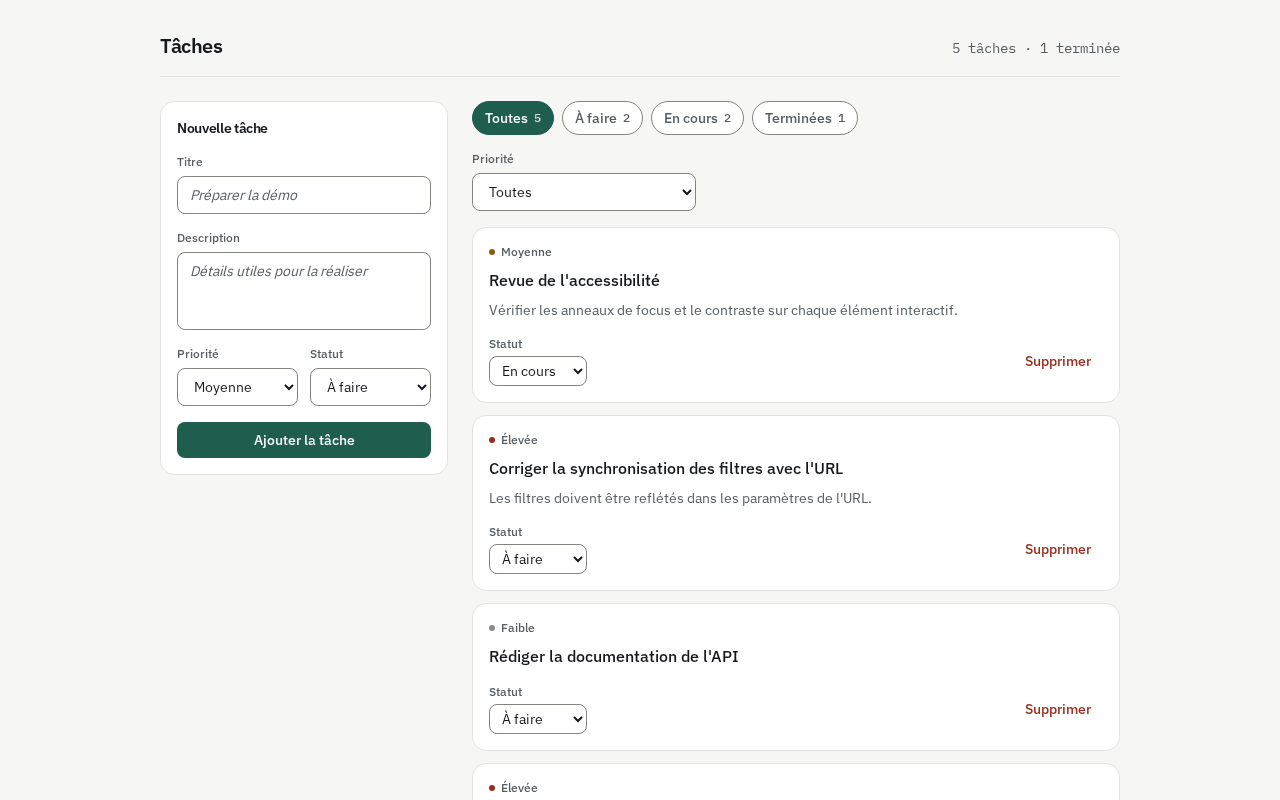
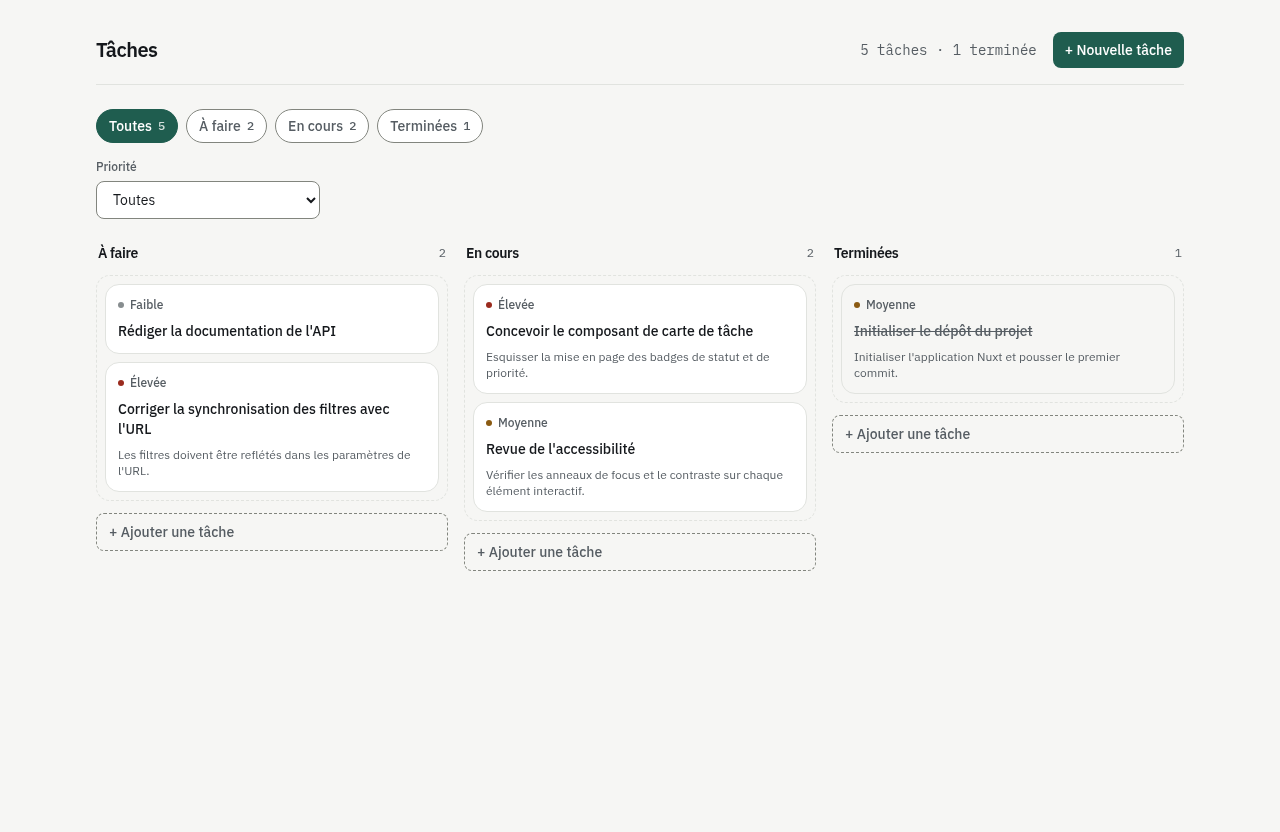
docs: update readme for the board
README, screenshots and memory now describe the board: the move
endpoint and its ordering rules, the position field and legacy
normalization, the status filter selecting columns instead of rows,
the drag-and-drop library choice and its SSR behavior, and the task
modal replacing the sidebar form.

diff --git a/README.md b/README.md
@@ -1,6 +1,6 @@
 # Task Manager
 
-Petit gestionnaire de tâches : liste, création, changement de statut, suppression et filtrage, avec rendu côté serveur. Réalisé dans le cadre d'un test technique.
+Petit gestionnaire de tâches : tableau Kanban (glisser-déposer, ordre persisté), création et édition via une modale, filtrage, rendu côté serveur. Réalisé dans le cadre d'un test technique.
 
 |                     Bureau (1280px)                     |                   Mobile (375px)                    |
 | :-------------------------------------------------------: | :----------------------------------------------------: |
@@ -76,22 +76,30 @@ Pas de base de données : hors périmètre de l'exercice. Les tâches sont persi
   npm run dev
   ```
 
-- **Donnée corrompue** : toute lecture passe par le même dépôt de tâches, donc si le contenu stocké ne respecte pas le schéma Zod d'une tâche (édition manuelle du fichier, par exemple), chaque route (`GET`, `POST`, `PATCH`, `DELETE`) répond `500` avec le message « Task data is corrupted », sans jamais écraser le fichier existant : la donnée invalide reste disponible pour investigation, le détail de l'erreur est loggé côté serveur et jamais renvoyé au client.
+- **Donnée corrompue** : toute lecture passe par le même dépôt de tâches, donc si le contenu stocké ne respecte pas le schéma Zod d'une tâche (édition manuelle du fichier, par exemple), chaque route (`GET`, `POST`, `PATCH`, `DELETE`, `POST .../move`) répond `500` avec le message « Task data is corrupted », sans jamais écraser le fichier existant : la donnée invalide reste disponible pour investigation, le détail de l'erreur est loggé côté serveur et jamais renvoyé au client.
+- **Ordre des tâches** : chaque tâche porte un `position`, un rang entier propre à sa colonne de statut (`0..n-1`, renuméroté après chaque création, changement de statut, suppression ou déplacement). Une tâche stockée avant l'introduction de ce champ (donnée historique) n'a pas de 500 pour autant : à la lecture, les tâches sans `position` sont classées par `createdAt` au sein de leur statut, pour obtenir un rang valide.
 
 ## Architecture
 
 ```
 app/
-├── pages/index.vue          page unique : liste, filtres, formulaire de création
-├── components/               composants présentationnels (carte, filtres, formulaire, alertes)
+├── pages/index.vue          page unique : tableau, filtres, modale de tâche
+├── components/
+│   ├── TaskBoard.vue         colonnes visibles selon le filtre de statut
+│   ├── TaskColumn.vue        une colonne : liste triable (vue-draggable-plus), bouton d'ajout
+│   ├── TaskCard.vue           carte compacte, cliquable/focusable (ouvre la modale)
+│   ├── TaskModal.vue          <dialog> natif : création ou édition
+│   ├── TaskForm.vue           formulaire réutilisé par la modale (création et édition)
+│   ├── TaskFilters.vue        filtres statut (colonnes visibles) et priorité
+│   └── AppAlert.vue, TaskHiddenNotice.vue   bannières d'erreur et de notice
 ├── composables/               synchronisation des filtres avec l'URL
-├── stores/tasks.ts            état Pinia : liste, filtres, erreurs, mises à jour optimistes
+├── stores/tasks.ts            état Pinia : tâches, filtres, erreurs, mutations optimistes et pessimistes
 ├── utils/                     libellés français des énumérations, normalisation des erreurs API
 └── assets/css/main.css        jetons Tailwind (@theme)
 
 server/
-├── api/tasks/                 routes Nitro (une par méthode HTTP)
-├── utils/task-repository.ts   lecture/écriture du fichier, file d'écriture sérialisée
+├── api/tasks/                 routes Nitro (une par méthode HTTP, plus `[id]/move.post.ts`)
+├── utils/task-repository.ts   lecture/écriture du fichier, ordre par colonne, file d'écriture sérialisée
 └── data/tasks.json            jeu de données de démonstration (seed)
 
 shared/
@@ -104,20 +112,23 @@ test/
 └── e2e/                       API complète sur un serveur réel, stockage en mémoire
 ```
 
-Flux d'une requête : `page → store (action Pinia) → $fetch → route serveur → dépôt de tâches → fichier JSON`. Le chargement initial de la liste s'exécute côté serveur via `useAsyncData`, qui hydrate directement le store depuis le payload SSR : aucun second appel réseau n'a lieu au montage côté client.
+Flux d'une requête : `page → store (action Pinia) → $fetch → route serveur → dépôt de tâches → fichier JSON`. Le chargement initial du tableau s'exécute côté serveur via `useAsyncData`, qui hydrate directement le store depuis le payload SSR : aucun second appel réseau n'a lieu au montage côté client. Le glisser-déposer, lui, ne peut s'activer qu'une fois monté côté client (il dépend du DOM réel) ; la liste de cartes qu'il enrichit est déjà rendue par le serveur.
 
 ## API
 
-Base `/api`, JSON, sans versionnage. Le serveur génère `id`, `createdAt` et `updatedAt` ; le client ne les envoie jamais.
+Base `/api`, JSON, sans versionnage. Le serveur génère `id`, `createdAt`, `updatedAt` et `position` ; le client ne les envoie jamais.
 
-| Méthode  | Route            | Succès | Erreurs                                      |
-| -------- | ---------------- | ------ | --------------------------------------------- |
-| `GET`    | `/api/tasks`      | `200` liste des tâches | `500` donnée corrompue                |
-| `POST`   | `/api/tasks`      | `201` tâche créée      | `400` corps invalide                  |
-| `PATCH`  | `/api/tasks/:id`  | `200` tâche mise à jour | `400` corps invalide · `404` id inconnu |
-| `DELETE` | `/api/tasks/:id`  | `204` sans contenu     | `404` id inconnu                      |
+| Méthode  | Route                  | Succès                  | Erreurs                                              |
+| -------- | ----------------------- | ------------------------ | ------------------------------------------------------ |
+| `GET`    | `/api/tasks`             | `200` liste des tâches   | `500` donnée corrompue                                |
+| `POST`   | `/api/tasks`              | `201` tâche créée (fin de sa colonne) | `400` corps invalide                    |
+| `PATCH`  | `/api/tasks/:id`          | `200` tâche mise à jour  | `400` corps invalide · `404` id inconnu               |
+| `DELETE` | `/api/tasks/:id`          | `204` sans contenu       | `404` id inconnu                                      |
+| `POST`   | `/api/tasks/:id/move`     | `200` tâche déplacée     | `400` corps invalide ou `beforeId` hors de la colonne cible · `404` id inconnu |
 
 Un `400` levé après l'analyse du corps (champ invalide, manquant...) renvoie le détail de validation Zod dans `data.issues` (`fieldErrors` par champ, `formErrors` globaux). Un `400` levé avant, parce que le corps n'est pas un JSON valide, n'a pas ce détail : il vient de `h3` lui-même (`readBody`), pas du schéma. Toute erreur est levée avec `createError` (`h3`), donc reçue côté client comme `{ statusCode, statusMessage, data }`.
+
+Le corps de `POST /api/tasks/:id/move` est `{ status, beforeId }` : `status` est la colonne cible, `beforeId` l'identifiant de la tâche devant laquelle insérer (`null` pour la fin de la colonne). La position finale est calculée côté serveur, dans la file d'écriture : `beforeId` est cherché dans l'ordre complet de la colonne cible (y compris les tâches qu'un filtre de priorité masque côté client), pas dans un index brut, pour rester correct même si le filtre masque des cartes ou qu'un autre déplacement vient de s'appliquer.
 
 ## Choix techniques et compromis
 
@@ -126,37 +137,42 @@ Un `400` levé après l'analyse du corps (champ invalide, manquant...) renvoie l
 | Chargement initial côté serveur (`useAsyncData` + Pinia)                | Le premier rendu est déjà peuplé, pas de flash de chargement ; le store est réhydraté depuis le payload SSR, jamais refetché au montage client |
 | File d'écriture unique dans le dépôt de tâches                          | Lecture-modification-écriture atomique au sein d'un même processus Node ; ne protège pas une donnée partagée entre plusieurs instances (déploiement multi-process ou serverless), limite assumée vu le stockage fichier |
 | Validation Zod à chaque lecture du fichier, pas seulement à l'écriture  | Détecte un fichier corrompu ou édité à la main avant de le renvoyer au client, au prix d'un `safeParse` sur chaque requête |
-| Mise à jour de statut et suppression optimistes, création pessimiste    | Statut et suppression sont des issues prévisibles : l'UI répond immédiatement et annule la mutation localement en cas d'échec (rollback ciblé : seulement si rien d'autre n'a écrit entre-temps) ; la création attend le serveur, qui seul génère l'identifiant |
+| `position` : rang entier par colonne, renuméroté `0..n-1` à chaque mutation | Simple et sans dérive de flottants ; la colonne est l'unité d'ordre. Une route dédiée (`POST .../move`) calcule ce rang côté serveur à partir d'un `beforeId`, plutôt que le client n'envoie un index brut, fragile dès qu'un filtre masque des cartes ou qu'une autre mutation s'intercale |
+| `vue-draggable-plus` (SortableJS) pour le glisser-déposer                | Seule librairie testée dans le dépôt (`node_modules`) avant usage : composant `VueDraggable`, props `group`/`animation`, événements `update` (réordre dans une liste) et `add` (dépôt venant d'une autre liste). Elle ne touche jamais le store Pinia directement : chaque colonne garde une copie locale (`localTasks`) que la librairie réordonne visuellement, la page calcule le `beforeId` et appelle l'action du store, seule source de vérité |
+| Pas de `<ClientOnly>` autour du glisser-déposer                         | `vue-draggable-plus` n'accède au DOM/`Sortable` qu'au montage (`onMounted`), jamais à l'import ni au rendu du composant : la liste de cartes est donc rendue côté serveur comme n'importe quel composant, et le glisser-déposer s'active seul une fois monté côté client, sans composant supplémentaire |
+| Déplacement optimiste, édition pessimiste                               | Un glisser-déposer doit répondre à l'image ; son échec est rare et sans accumulation d'état à annuler proprement (deux colonnes réordonnées) : en cas d'échec, le tableau est simplement resynchronisé depuis le serveur (`fetchTasks`). Une édition de champ (titre, description...) doit au contraire pouvoir renvoyer une erreur de champ précise avant de toucher l'affichage : elle attend la réponse du serveur |
+| `<dialog>` natif pour la modale de tâche                                | Gestion native du focus, de la touche Échap et du fond (`::backdrop`), sans dépendance ; une seule instance de modale et de formulaire, réinitialisée (`resetForCreate`/`loadForEdit`) à chaque ouverture plutôt que démontée/remontée |
+| L'édition n'envoie que les champs modifiés                              | Le formulaire compare la saisie à la tâche d'origine avant de soumettre ; une édition sans changement ferme la modale sans appel réseau (un corps vide serait de toute façon rejeté par le serveur) |
 | Erreurs normalisées en un objet `ApiErrorState` sérialisable             | Une instance de classe ne survit pas à la sérialisation du payload SSR (`devalue`) ; chaque action du store porte son propre message utilisateur en français, découplé du message HTTP brut |
-| Filtres portés par l'URL (`useTaskFilters`), un seul sens de synchronisation | La query string est la source de vérité : un watcher unique la pousse vers le store, jamais l'inverse ; une vue filtrée reste partageable et rechargeable (détail de l'historique sous le tableau) |
+| Filtres portés par l'URL (`useTaskFilters`), un seul sens de synchronisation | La query string est la source de vérité : un watcher unique la pousse vers le store, jamais l'inverse. Le filtre de statut sélectionne la ou les colonnes affichées (plus un sous-ensemble de lignes) ; le filtre de priorité masque des cartes à l'intérieur de chaque colonne affichée |
 | Composants de présentation (props/emit), seule la page parle au store   | Composants testables et réutilisables indépendamment de Pinia |
 | Tailwind v4 seul, jetons déclarés avec `@theme`                         | Pas de bibliothèque de composants ; palette et rayons centralisés dans `app/assets/css/main.css` |
 | Interface en français, code et valeurs d'énumération en anglais         | Le public visé est francophone ; les identifiants restent des clés stables côté code |
-| Suppression confirmée par un second clic (auto-annulé après 4 s) plutôt qu'une modale | Évite une suppression accidentelle sans ajouter de composant modal |
-| Trois projets de tests (unit / nuxt / e2e)                              | Unit pour la logique serveur et les schémas en Node pur, nuxt pour le store et les composants avec `$fetch` mocké, e2e sur un serveur réel avec stockage en mémoire (dont un test de 20 requêtes concurrentes) ; aucun test de navigateur (Playwright) n'est en place |
+| Suppression confirmée par un second clic (auto-annulé après 4 s) plutôt qu'une confirmation modale distincte | Le bouton vit déjà dans la modale de tâche ; éviter une boîte de dialogue dans une boîte de dialogue |
+| Trois projets de tests (unit / nuxt / e2e)                              | Unit pour la logique serveur et les schémas en Node pur, nuxt pour le store et les composants avec `$fetch` mocké, e2e sur un serveur réel avec stockage en mémoire (dont des tests de requêtes concurrentes, création et déplacement) ; aucun test de navigateur (Playwright) n'est en place, le glisser-déposer réel n'est donc vérifié que manuellement |
 | Pas de base de données, pas d'authentification, pas de backend séparé   | Hors périmètre de l'exercice (budget de 3 à 4 heures) |
 
 Historique des filtres : chaque changement de filtre fait un `router.push`, donc `Précédent` revient au filtre précédent. La réinitialisation efface statut et priorité en un seul `push`, pour ne pas créer d'étape intermédiaire. La correction d'une valeur invalide dans l'URL fait un `replace` : ce n'est pas une navigation à annuler.
 
 ## Fonctionnalités
 
-- [x] Liste des tâches chargée côté serveur au premier rendu (SSR)
-- [x] Création d'une tâche (titre, description, statut, priorité), validée côté client et côté serveur
-- [x] Changement de statut d'une tâche
-- [x] Suppression d'une tâche (confirmation par second clic)
-- [x] Filtrage par statut et par priorité, reflété dans l'URL
-- [x] Interface responsive (mobile et bureau), Tailwind uniquement
-- [x] Retours d'erreur explicites : échec de chargement (avec reprise), échec de mutation (bannière + annulation), erreurs de champ en ligne
+- [x] Tableau à trois colonnes (à faire / en cours / terminées), chargé côté serveur au premier rendu (SSR)
+- [x] Glisser-déposer d'une tâche, dans une colonne ou entre colonnes, ordre persisté
+- [x] Création d'une tâche via une modale (titre, description, statut, priorité), statut pré-rempli par la colonne d'origine
+- [x] Édition d'une tâche existante via la même modale (clic sur une carte), uniquement les champs modifiés sont envoyés
+- [x] Suppression d'une tâche depuis la modale (confirmation par second clic)
+- [x] Filtrage par statut (sélectionne la ou les colonnes affichées) et par priorité (masque des cartes dans chaque colonne), reflété dans l'URL
+- [x] Interface responsive (mobile : défilement horizontal des colonnes avec ancrage ; bureau : colonnes côte à côte), Tailwind uniquement
+- [x] Retours d'erreur explicites : échec de chargement (avec reprise), échec de déplacement (bannière + tableau resynchronisé), échec d'édition (bannière, ou erreurs de champ en ligne sur un `400`)
 - [x] Notification quand une tâche créée est masquée par les filtres actifs, avec une action pour tout afficher
 
 ## Pistes d'amélioration
 
-- Édition du titre et de la description d'une tâche existante
 - Base de données réelle avec transactions, pour un déploiement multi-instance
 - Authentification
 - Pagination et recherche
-- Réorganisation par glisser-déposer
-- Tests de navigateur de bout en bout (Playwright)
+- Réorganisation du statut au clavier (alternative au glisser-déposer, au-delà de l'ouverture de la modale)
+- Tests de navigateur de bout en bout (Playwright), notamment pour le glisser-déposer réel
 - Internationalisation (l'interface est figée en français)
 - Suppression par notification (toast) avec annulation, au lieu d'une confirmation par second clic
 - Intégration continue (CI)

diff --git a/aidd_docs/memory/design.md b/aidd_docs/memory/design.md
@@ -18,11 +18,13 @@
 
 ## Components
 
-- Small presentational components (task card, badges, filters, form) driven by props and emits; only pages and containers talk to the store.
+- Small presentational components (board, column, card, filters, form) driven by props and emits; only pages and containers talk to the store.
 - Every async surface has loading, empty and error states.
-- Status filter is a `role="group"` of `aria-pressed` toggle buttons (not `tablist`/`tab`: there is no tabpanel or roving tabindex), scrollable on mobile; priority uses a native `<select>`. Priority on a card is a small dot + text label (`TaskCard`), never color alone.
-- A done task's title is struck through and muted (`text-ink-soft line-through`), its card on a slightly muted surface (`bg-canvas`) — still text-labelled by its status select, color is never the only signal.
-- Delete asks for a second click on the same button (label flips to "Confirmer ?"), auto-cancelled after 4s or on blur — no modal.
+- Status filter is a `role="group"` of `aria-pressed` toggle buttons (not `tablist`/`tab`: there is no tabpanel or roving tabindex), scrollable on mobile; priority uses a native `<select>`. On the board, the status filter selects which column(s) `TaskBoard` renders (not a row filter); priority narrows the cards inside each rendered column. Priority on a card is a small dot + text label (`TaskCard`), never color alone.
+- A done task's title is struck through and muted (`text-ink-soft line-through`), its card on a slightly muted surface (`bg-canvas`) — still text-labelled in the edit modal's status select, color is never the only signal.
+- `TaskBoard` lays out one `TaskColumn` per visible status: a flex row, `snap-x`/`snap-mandatory` with cards ~85vw wide on mobile (next column peeking), equal-width flex columns from `lg:`.
+- Drag and drop: `vue-draggable-plus` (SortableJS) on a per-column local copy, never the store directly. `ghostClass`/`chosenClass` go straight to `classList.add`/`remove`, so each must be a single token — no space-separated utility pairs (e.g. not `"ring-2 ring-accent"`); an arbitrary-value utility works (`shadow-[0_0_0_2px_var(--color-accent)]`).
+- Task creation and editing share one `TaskModal` (native `<dialog>`, `showModal()`/`close()`) and one `TaskForm` instance, reset (`resetForCreate`/`loadForEdit`) rather than remounted on each open. Delete asks for a second click on the same button (label flips to "Confirmer ?"), auto-cancelled after 4s or on blur, inside the modal rather than a nested confirmation dialog.
 
 ## Accessibility
 

diff --git a/aidd_docs/memory/api.md b/aidd_docs/memory/api.md
@@ -7,11 +7,12 @@
 
 ## Resources
 
-- `tasks`: list, create, partial update (status and fields), delete.
+- `tasks`: list, create, partial update (status and fields), delete, move (reorder within or across status columns).
 
 ## Contracts
 
 - Bodies are validated with the Zod schemas from `shared/`; an invalid body returns `400` with the issues in `data`.
 - Unknown id returns `404`; unexpected failures return `500`. Errors are thrown with `createError` so the client receives `{ statusCode, statusMessage, data }`.
 - Create returns `201` with the created task; delete returns `204`.
-- Server generates `id`, `createdAt`, `updatedAt`; the client never sends them.
+- Server generates `id`, `createdAt`, `updatedAt`, `position`; the client never sends them.
+- `POST /api/tasks/:id/move` takes `{ status, beforeId }` (`beforeId: null` means end of column) and returns `200` with the moved task. `beforeId` is looked up in the target column's full order (every task of that status, not just the ones a priority filter leaves visible client-side); not found there is a `400`, not a `404` (the id itself may be valid, just not in that column).

diff --git a/aidd_docs/memory/database.md b/aidd_docs/memory/database.md
@@ -10,3 +10,5 @@
 - On first read, an absent data file is seeded from `server/data/`.
 - Every write goes through one serialized queue: read, mutate, write, so concurrent requests never overwrite each other.
 - The data file lives under `.data/` (git-ignored); deleting it resets the app to the seed.
+- Each task carries `position`: an integer rank scoped to its status column, renumbered `0..n-1` on every create, status change, delete or move in that column. The column is the unit of ordering; there is no cross-column rank.
+- A task stored before `position` existed is not corrupted data: on read, any column holding such a task is ranked by `createdAt` instead, and every task leaves the repository with a `position` set.

diff --git a/aidd_docs/memory/navigation.md b/aidd_docs/memory/navigation.md
@@ -3,11 +3,11 @@
 ## Routing
 
 - Nuxt file-based routing in `app/pages/`; no auth, all routes public.
-- Filters are reflected in the URL query so a filtered view can be shared and reloaded.
+- Filters are reflected in the URL query so a filtered view can be shared and reloaded. The status filter selects which board column(s) render, not a row filter; the priority filter narrows the cards within each rendered column.
 
 ## Structure
 
 ```mermaid
 flowchart LR
-    Home[/ task list + filters + create form/]
+    Home[/ kanban board + filters, task modal/]
 ```

diff --git a/aidd_docs/tasks/2026_11/2026_11_01_kanban-board/plan.md b/aidd_docs/tasks/2026_11/2026_11_01_kanban-board/plan.md
@@ -1,6 +1,6 @@
 ---
 objective: "Tasks are managed on a Trello-like board: one column per status, drag and drop between and within columns with a persisted order, and a modal to create and edit a task."
-status: in-progress
+status: implemented
 ---
 
 # Plan: Kanban board

diff --git a/aidd_docs/tasks/2026_11/2026_11_01_kanban-board/phase-3.md b/aidd_docs/tasks/2026_11/2026_11_01_kanban-board/phase-3.md
@@ -1,5 +1,5 @@
 ---
-status: pending
+status: done
 ---
 
 # Instruction: Task modal, docs and memory
